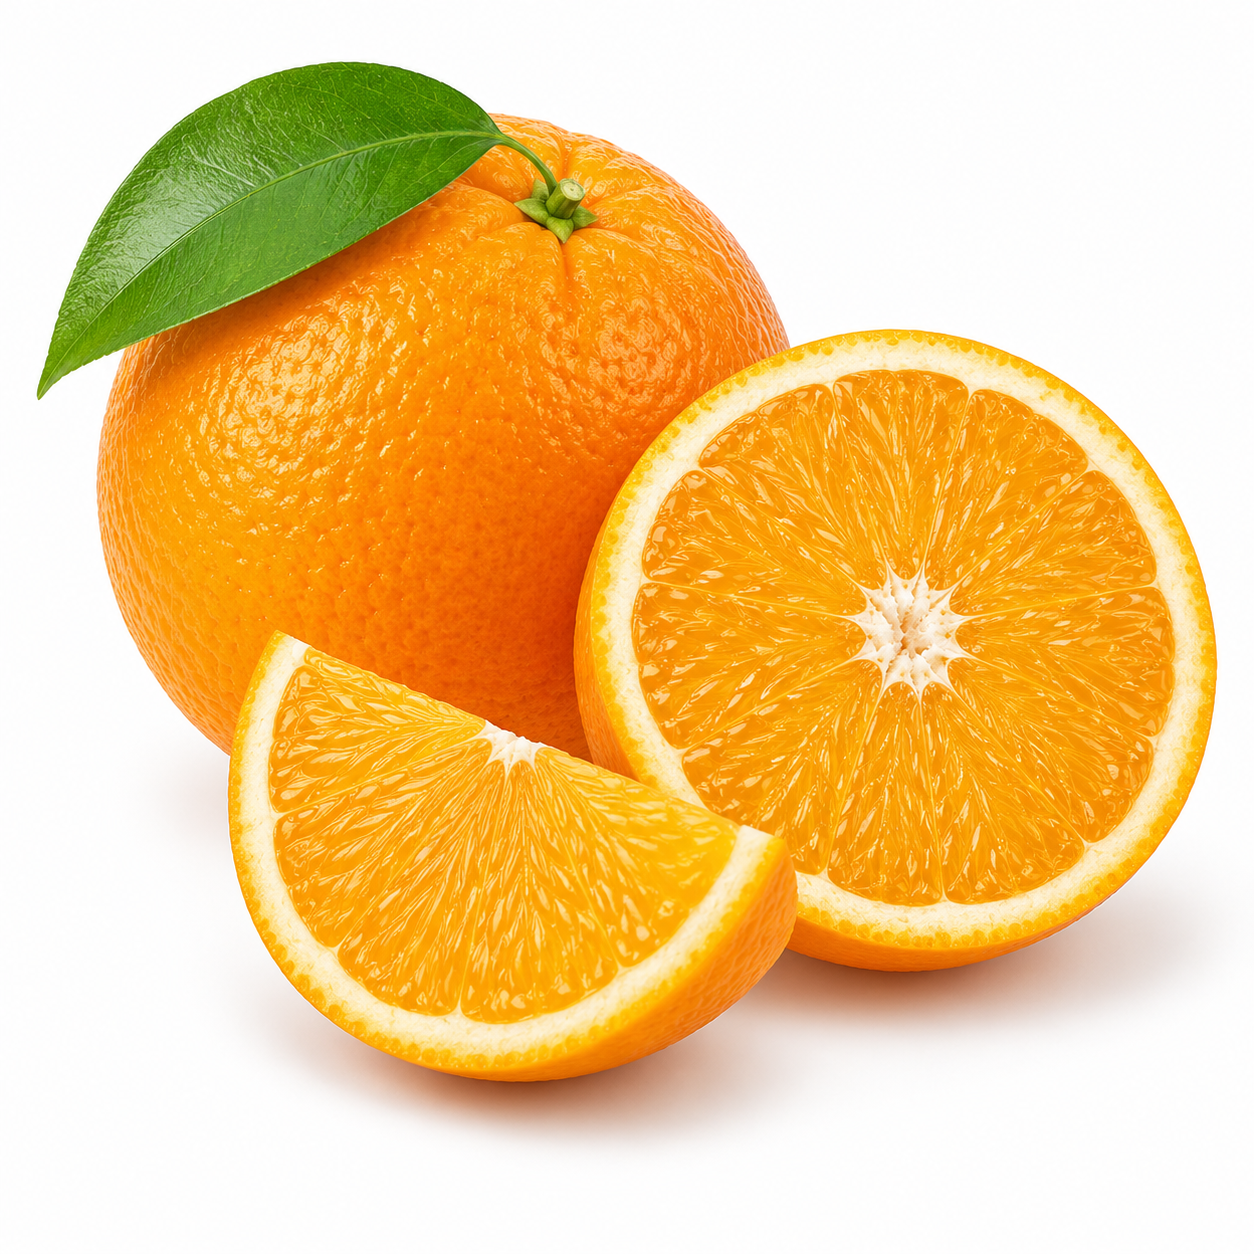
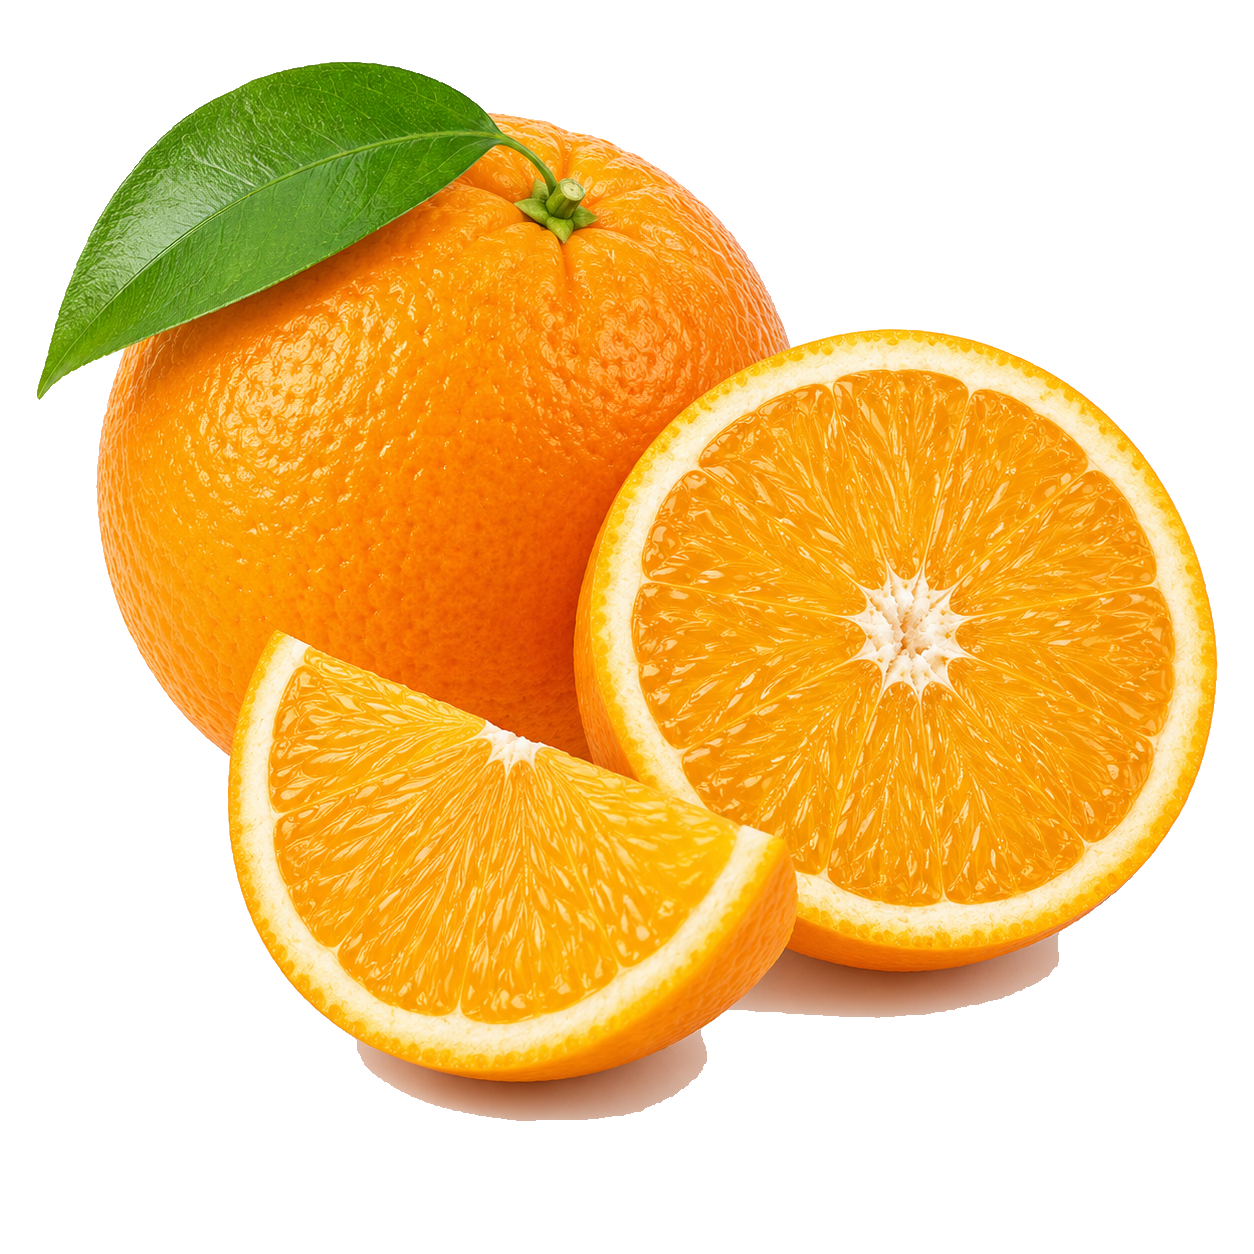
all the screen have been worked on just minor fixes and updates left

Changed region(s): [[0.2177, 0.6842, 0.9641, 0.933], [0.1555, 0.5909, 0.1866, 0.6842]]

diff --git a/screens/ProductDetailScreen.js b/screens/ProductDetailScreen.js
@@ -1,0 +1,97 @@
+import { StyleSheet, View, Text, Image, ScrollView, Pressable } from "react-native";
+import { SafeAreaView } from "react-native-safe-area-context";
+import { Ionicons } from "@expo/vector-icons";
+import PrimaryButtons from '../components/PrimaryButtons';
+import { useState } from "react";
+
+function ProductDetailScreen({ route, navigation }) {
+    const [isFavourite, setIsFavourite] = useState(false);
+    const { product } = route.params;
+    return (
+        <SafeAreaView edges={['top']}>
+            <ScrollView>
+                <View style={styles.arrowHeart}>
+                    <Pressable onPress={() => navigation.goBack()}>
+                        <Ionicons name="arrow-back" size={40} />
+                    </Pressable>
+
+                    <Pressable onPress={() => setIsFavourite(!isFavourite)}>
+                        <Ionicons name={isFavourite ? "heart" : "heart-outline"} size={40} color={isFavourite ? "red" : "black"} />
+                    </Pressable>
+                </View>
+                <View style={styles.productBox}>
+                    <Image style={styles.productImage} source={product.image} />
+                </View>
+
+                <Text style={[styles.container, styles.detailsInfo]}>{product.name}</Text>
+                <Text style={[styles.container, styles.detailsInfo, styles.detailsInfoPrice]}>NLe {product.price}</Text>
+                <Text style={[styles.container]}>{product.description}</Text>
+                <Text style={[styles.container, styles.detailsQuantity]}>Quantity</Text>
+                <View style={[styles.container, styles.quantityCount]}>
+                    <Ionicons name="remove" size={40} color='#2d6a4f' />
+                    <Text>1</Text>
+                    <Ionicons name="add" size={40} color='#2d6a4f' />
+                </View>
+                <View style={styles.getStartedButton}>
+                    <PrimaryButtons style={styles.button}> <Ionicons name="cart" color="#ffd166" size={30} /> Add ToCart</PrimaryButtons>
+                </View>
+            </ScrollView>
+
+
+        </SafeAreaView>
+
+    )
+}
+
+export default ProductDetailScreen;
+
+const styles = StyleSheet.create({
+    container: {
+        marginHorizontal: 16
+    },
+    arrowHeart: {
+        flexDirection: 'row',
+        justifyContent: 'space-between',
+        marginHorizontal: 16
+    },
+    productBox: {
+        margin: 16,
+        borderRadius: 10,
+        justifyContent: 'center',
+        alignItems: "center"
+    },
+    productImage: {
+        width: 370,
+        height: 400
+    },
+    detailsInfo: {
+        fontSize: 32,
+    },
+    detailsInfoPrice: {
+        fontSize: 28,
+        fontWeight: 'bold',
+        color: '#2d6a4f',
+        paddingVertical: 10
+    },
+    detailsQuantity: {
+        fontSize: 20,
+        fontWeight: 'bold'
+    },
+    quantityCount: {
+        width: '40%',
+        borderColor: '#2d6a4f',
+        borderWidth: 1,
+        borderRadius: 10,
+        marginTop: 10,
+        flexDirection: "row",
+        justifyContent: 'space-between',
+        alignItems: "center"
+    },
+    getStartedButton: {
+        flex: 1,
+        width: '80%',
+        justifyContent: 'center',
+        alignItems: 'center',
+        marginBottom: 20
+    },
+})

diff --git a/screens/ProfileScreen.js b/screens/ProfileScreen.js
@@ -1,0 +1,102 @@
+import { Ionicons } from "@expo/vector-icons";
+import { StyleSheet, View, Text, Image } from "react-native";
+import { SafeAreaView } from "react-native-safe-area-context";
+
+function ProfileScreen() {
+    return (
+        <SafeAreaView style={styles.container} edges={['top']}>
+            <Image style={styles.profileImage} source={require('../assets/images/profile.jpeg')} />
+            <View style={styles.userInfo}>
+                <View style={styles.nameContainer}>
+                    <Text style={styles.userDetails}>Mujay M.M Nabieu</Text>
+                    <Text style={styles.userDetails1}>mujaymillicentnabieu005@gmail.com</Text>
+                </View>
+                <View style={styles.otherProfile}>
+                    <View style={styles.first}>
+                        <Ionicons name="settings-outline" size={35} />
+                        <Text style={styles.text}>Settings</Text>
+                    </View>
+                    <View>
+                        <Ionicons name="arrow-forward" size={35} />
+                    </View>
+                </View>
+                <View style={styles.otherProfile}>
+                    <View style={styles.first}>
+                        <View style={styles.helpView}>
+                            <Ionicons name="help" size={35} color='white' />
+                        </View>
+                        <Text style={styles.text}>Help Center</Text>
+                    </View>
+                    <View>
+                        <Ionicons name="arrow-forward" size={35} />
+                    </View>
+                </View>
+                <View style={styles.otherProfile}>
+                    <View style={styles.first}>
+                        <Ionicons name="log-out-outline" size={35} color='red' />
+                        <Text style={styles.text}>Log out</Text>
+                    </View>
+                    <View>
+                        <Ionicons name="arrow-forward" size={35} />
+                    </View>
+                </View>
+            </View>
+        </SafeAreaView>
+
+    )
+}
+export default ProfileScreen;
+
+const styles = StyleSheet.create({
+    container: {
+        flex: 1,
+        backgroundColor: '#ebe9e9',
+        marginTop: 250,
+        borderTopLeftRadius: 40,
+        borderTopRightRadius: 40,
+        alignItems: 'center'
+    },
+    profileImage: {
+        width: 200,
+        height: 200,
+        borderRadius: 100,
+        marginTop: -150
+    },
+    userDetails: {
+        fontSize: 28,
+        fontWeight: 'bold',
+        textAlign: 'center'
+    },
+    userDetails1: {
+        fontSize: 16,
+        textAlign: 'center'
+    },
+    userInfo: {
+        marginTop: 40
+    },
+    first: {
+        flexDirection: 'row',
+        alignItems: 'center'
+
+    },
+    nameContainer: {
+        marginBottom: 30
+    },
+    otherProfile: {
+        flexDirection: 'row',
+        justifyContent: 'space-between',
+        borderColor: '#333',
+        borderRadius: 20,
+        borderWidth: 1,
+        padding: 10,
+        marginTop: 20
+    },
+    text: {
+        paddingLeft: 5,
+        fontSize: 20
+    },
+    helpView: {
+        backgroundColor: '#2d6a4f',
+        borderRadius: 50
+    }
+})

diff --git a/screens/HomeScreen.js b/screens/HomeScreen.js
@@ -4,7 +4,7 @@ import { SafeAreaView } from "react-native-safe-area-context";
 import Categories from "../components/Categories";
 import ProductItem from "../components/ProductItem";
 
-function HomeScreen() {
+function HomeScreen({ navigation }) {
     const categories = [
         {
             id: 1,
@@ -35,33 +35,37 @@ function HomeScreen() {
     const products = [
         {
             id: 1,
-            image: require('../assets/images/Apple fruit.png'),
+            image: require('../assets/images/Grapes.png'),
             name: 'Grapes',
+            description: 'Sweet, fresh and juicy grapes, perfect for snacking or adding to your favorite recipes.',
             price: 50,
         },
         {
             id: 2,
-            image: require('../assets/images/Apple fruit.png'),
+            image: require('../assets/images/Mango.png'),
             name: 'Mango',
+            description: 'Sweet, fresh and juicy mangoes, perfect for snacking or adding to your favorite recipes.',
             price: 20,
         },
         {
             id: 3,
-            image: require('../assets/images/Apple fruit.png'),
+            image: require('../assets/images/Orange.png'),
             name: 'Orange',
+            description: 'Sweet, fresh and juicy oranges, perfect for snacking or adding to your favorite recipes.',
             price: 10,
         },
         {
             id: 4,
-            image: require('../assets/images/Apple fruit.png'),
+            image: require('../assets/images/Water.png'),
             name: 'Watermelon',
+            description: 'Sweet, fresh and juicy watermelons, perfect for snacking or adding to your favorite recipes.',
             price: 60,
-        }
+        },
     ]
 
     return (
-        <SafeAreaView style={styles.safeArea}>
-            <ScrollView style={styles.scrollContent}>
+        <SafeAreaView style={styles.safeArea} edges={['top']}>
+            <ScrollView>
 
                 <View style={styles.welcomeMessage}>
                     <Text style={styles.welcomeMessageText}>Hello, Mujay</Text>
@@ -94,7 +98,7 @@ function HomeScreen() {
 
                     <View style={styles.productList}>
                         {products.map((product) => (
-                            <ProductItem key={product.id} image={product.image} name={product.name} price={product.price} />
+                            <ProductItem key={product.id} image={product.image} name={product.name} price={product.price} description={product.description} onPress={() => navigation.navigate('ProductDetails', { product })} />
                         ))}
                     </View>
                 </View>
@@ -109,10 +113,6 @@ export default HomeScreen;
 const styles = StyleSheet.create({
     safeArea: {
         flex: 1,
-        backgroundColor: 'white'
-    },
-    scrollContent: {
-        paddingBottom: 120
     },
     welcomeMessage: {
         flexDirection: 'row',

diff --git a/App.js b/App.js
@@ -2,12 +2,56 @@ import { StyleSheet, View } from 'react-native';
 
 import { NavigationContainer } from '@react-navigation/native';
 import { createNativeStackNavigator } from '@react-navigation/native-stack';
+import { createBottomTabNavigator } from '@react-navigation/bottom-tabs';
 import { SafeAreaProvider } from 'react-native-safe-area-context';
 
 import SplashScreen from './screens/SplashScreen';
 import HomeScreen from './screens/HomeScreen';
+import ProfileScreen from './screens/ProfileScreen';
+import ProductDetailScreen from './screens/ProductDetailScreen';
+import { Ionicons } from '@expo/vector-icons';
 
 const Stack = createNativeStackNavigator();
+const Tab = createBottomTabNavigator();
+
+function MainTabs() {
+  return (
+    <Tab.Navigator screenOptions={({ route }) => ({
+      headerShown: false,
+      tabBarShowLabel: false,
+      tabBarInactiveTintColor: '#2d6aef',
+      tabBarInactiveTintColor: '#111111',
+      tabBarStyle: {
+        backgroundColor: 'white',
+        borderTopWidth: 0,
+        height: 78,
+        shadowColor: '#000',
+        shadowOffset: { width: 0, height: -2 },
+        shadowOpacity: 0.25,
+        shadowRadius: 3,
+        elevation: 5
+      },
+      tabBarItemStyle: {
+        justifyContent: 'center',
+        alignItems: 'center'
+      },
+      tabBarIcon: ({ color, size, focused }) => {
+        let iconName;
+
+        if (route.name === 'Home') {
+          iconName = focused ? 'home' : 'home-outline';
+        }
+        else if (route.name === 'Profile') {
+          iconName = focused ? 'person' : 'person-outline';
+        }
+        return <Ionicons name={iconName} size={30} color={color} />
+      }
+    })}>
+      <Tab.Screen name='Home' component={HomeScreen} />
+      <Tab.Screen name='Profile' component={ProfileScreen} />
+    </Tab.Navigator>
+  )
+}
 
 export default function App() {
   return (
@@ -15,7 +59,8 @@ export default function App() {
       <NavigationContainer style={styles.container}>
         <Stack.Navigator initialRouteName='Splash' screenOptions={{ headerShown: false }}>
           <Stack.Screen name="Splash" component={SplashScreen} />
-          <Stack.Screen name="Home" component={HomeScreen} />
+          <Stack.Screen name="MainTabs" component={MainTabs} />
+          <Stack.Screen name="ProductDetails" component={ProductDetailScreen} />
         </Stack.Navigator>
       </NavigationContainer>
     </SafeAreaProvider>

diff --git a/components/ProductItem.js b/components/ProductItem.js
@@ -1,9 +1,9 @@
 import { StyleSheet, View, Text, Pressable, Image } from "react-native";
 import { Ionicons } from "@expo/vector-icons";
-function ProductItem({ name, price, image }) {
+function ProductItem({ name, price, image, description, onPress }) {
     return (
         <View style={styles.productBox}>
-            <Pressable>
+            <Pressable onPress={onPress}>
                 <Image style={styles.productImage} source={image} />
                 <View style={styles.productInfo}>
                     <View>

diff --git a/screens/SplashScreen.js b/screens/SplashScreen.js
@@ -6,7 +6,7 @@ import PrimaryButtons from "../components/PrimaryButtons";
 
 function SplashScreen({ navigation }) {
     function handleGetstartedPressed() {
-        navigation.replace('Home')
+        navigation.replace('MainTabs')
     }
     return (
         <View style={styles.container}>
